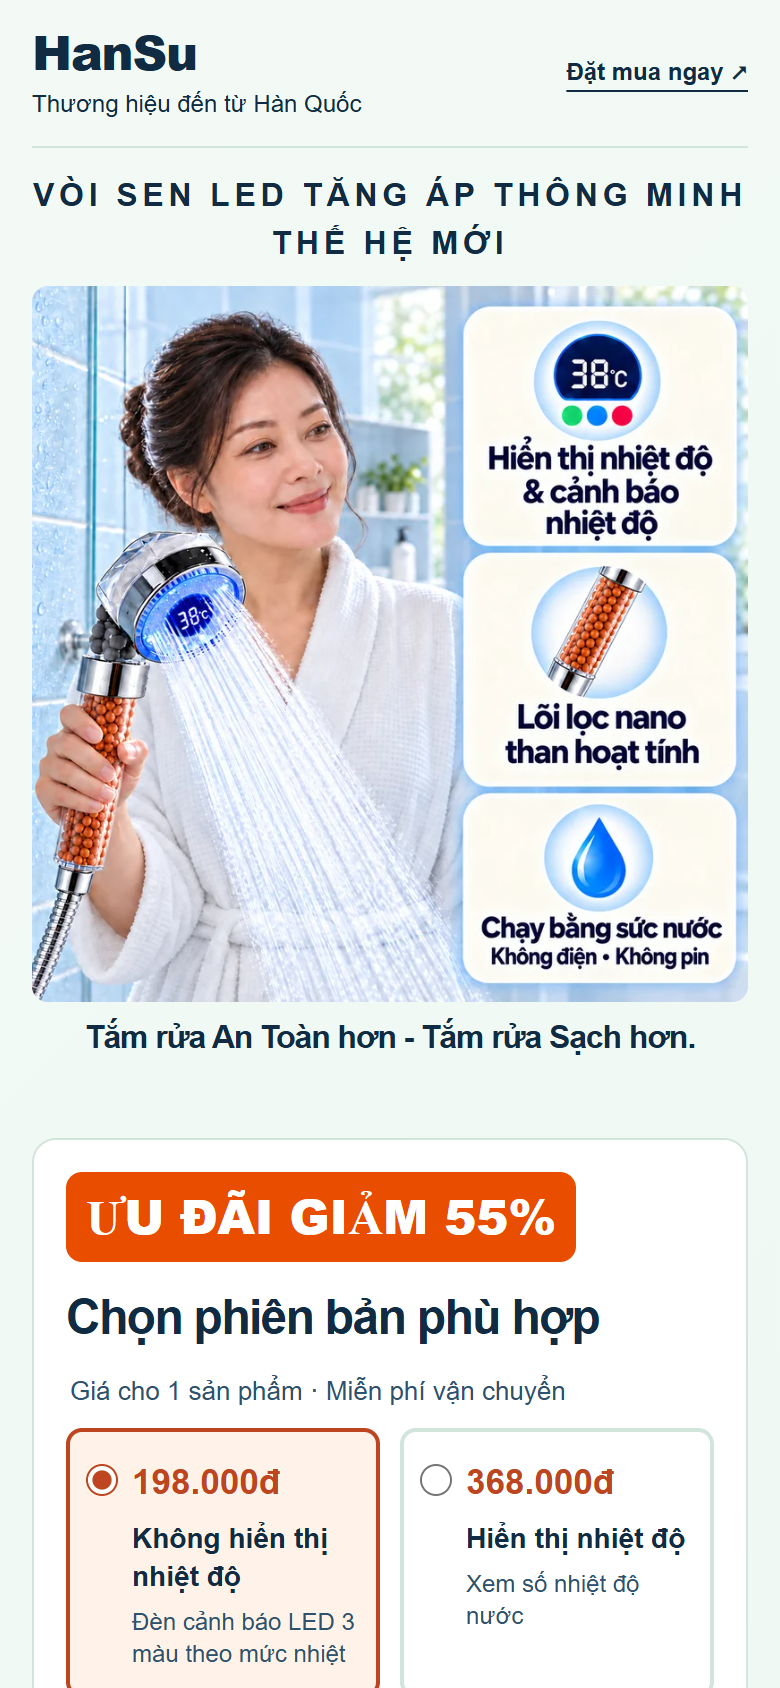
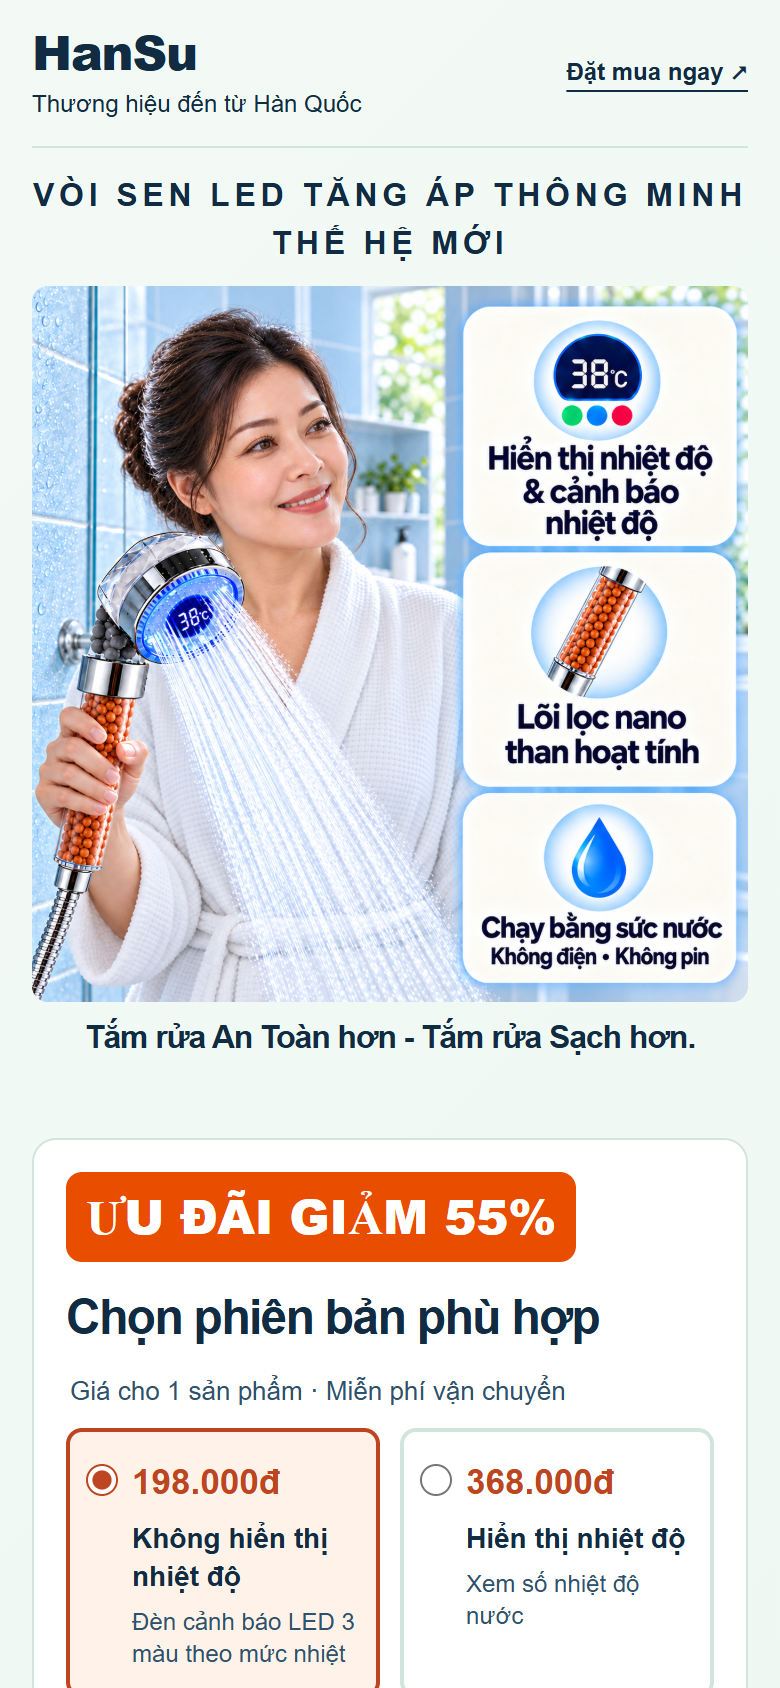
update

diff --git a/index.html b/index.html
@@ -1640,13 +1640,11 @@
         </div>
         <figure class="hero-photo">
           <img
-            src="assets/webp/hero-nano-carbon-v6-1254.webp"
+            src="assets/webp/hero-nano-carbon-v7.webp"
             width="1254"
             height="1254"
             fetchpriority="high"
             alt="Minh họa người dùng cầm vòi sen trong phòng tắm: hiển thị và cảnh báo nhiệt độ, lõi lọc nano than hoạt tính, chạy bằng sức nước không điện hay pin"
-            srcset="assets/webp/hero-nano-carbon-v6-480.webp 480w, assets/webp/hero-nano-carbon-v6-800.webp 800w, assets/webp/hero-nano-carbon-v6-1254.webp 1254w"
-            sizes="(max-width: 700px) calc(100vw - 32px), 660px"
             decoding="async"
             loading="eager"
           />

diff --git a/docs/hero-v7.md b/docs/hero-v7.md
@@ -1,0 +1,9 @@
+# Hero v7 — 2026-10-30
+
+Created with the built-in image_gen tool from `assets/hero-nano-carbon-v6.png` as the reference/edit target. The user reported degraded human detail in the source, rather than WebP compression. The new image reconstructs the woman's face, hair, hand and robe while retaining the shower, bathroom setting, right-hand three-card composition and existing Vietnamese feature copy. This is an AI-generated illustration, not a customer photograph.
+
+Saved source: `assets/hero-nano-carbon-v7.png`. Site asset: `assets/webp/hero-nano-carbon-v7.webp`, 1254 × 1254, lossless, 1,589,310 bytes. The tool returned 1254 × 1254 despite requesting 2048 × 2048. No artificial enlargement applied. Older assets retained.
+
+## Generation prompt
+
+Create a NEW high resolution square 2048x2048 commercial Vietnamese shower landing-page hero using this old cover as layout and product reference. The user specifically rejects the degraded, smeared woman's face/hair/hand in the old image: re-photograph/reconstruct the entire human figure naturally and crisply, NOT just upscale or sharpen old artifacts. Left 60%: realistic adult Vietnamese woman about 45 wearing a modest white waffle bathrobe, holding the same chrome round LED showerhead with transparent handle containing orange and dark beads. Bright clean bathroom context. Natural anatomically correct hand with five fingers, believable grip, crisp face, natural eyes/teeth/skin pores, individual hair strands and woven robe detail. Deep focus on BOTH woman and product, clean high resolution professional photography, no plastic skin, no melted fingers, no oversharpening halos, no painterly patches. Showerhead display 38°C, blue LED rim, water sprays diagonally down away from face. Preserve referenced product design and proportions. Right 40%: three neatly stacked white rounded cards with blue subtle accents, feature illustration above bold navy Vietnamese text, easy to read at mobile size. Exact card 1 text 'Hiển thị nhiệt độ' and '& cảnh báo nhiệt độ', with 38°C display and three small green/blue/red indicators. Exact card 2 text 'Lõi lọc nano' and 'than hoạt tính', with referenced transparent handle closeup. Exact card 3 text 'Chạy bằng sức nước' and 'Không điện • Không pin', with blue water-drop icon. Keep all three cards inside safe margins. No title at top, no logo, no additional claims, no price, no watermark. Balanced square composition, bright fresh light-blue bathroom palette, product and woman's face visually sharp and natural. This is a polished new reconstruction retaining the old layout, not a new unrelated design.

diff --git a/docs/image-optimization.md b/docs/image-optimization.md
@@ -1,5 +1,9 @@
 # Image optimization — 2026-10-30
 
+## Hero clarity follow-up
+
+The hero now uses `assets/webp/hero-nano-carbon-v6-original.webp`: 1254 × 1254, lossless WebP, 1,472,838 bytes. Removed the hero's responsive downsampled candidates to preserve source detail on every device. Decoded RGB pixels were verified identical to the original PNG. Its new filename avoids reusing cached compressed versions. Other images retain responsive compression. Rechecked all 18 images in Chrome at 390px and 1440px without loading failures, horizontal overflow or JavaScript errors. Updated full-set totals at DPR 2: 2,346,526 bytes mobile and 2,970,110 bytes desktop. The earlier totals below describe the initial optimization before this clarity adjustment.
+
 Converted all 18 local images referenced by index.html to responsive WebP assets in assets/webp/. Original sources are retained and no image content was generated or changed. Facebook's remote tracking pixel remains unchanged.
 
 - Encoder: bundled Sharp, WebP quality 85, effort 6, proportional resizing, no enlargement.
